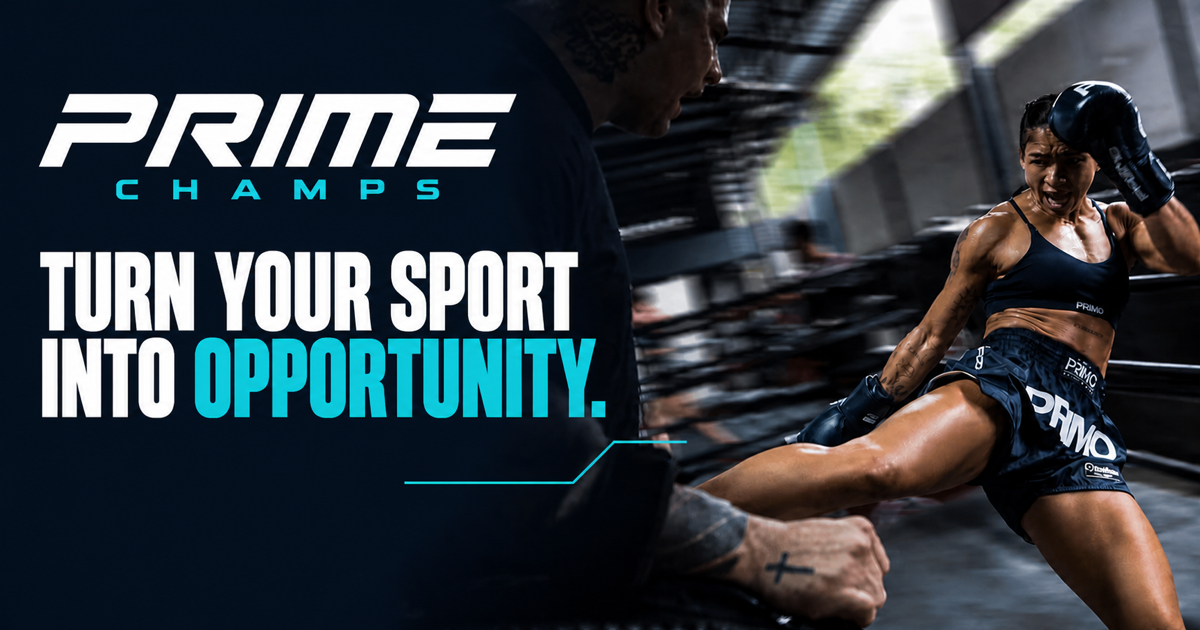
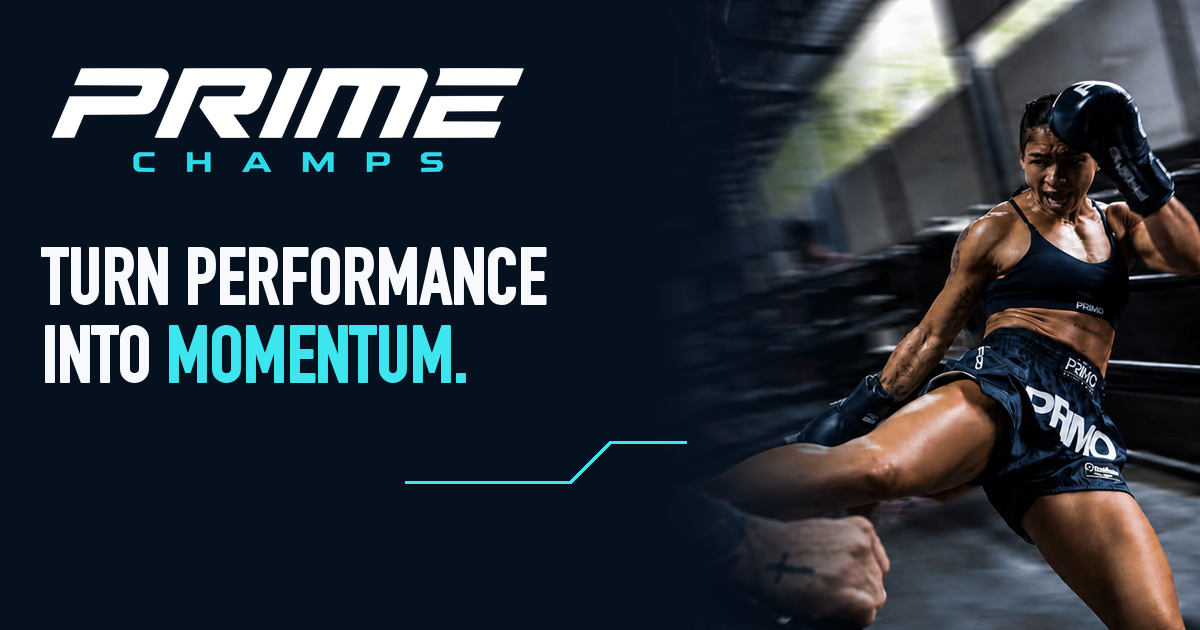
Polish athlete and brand conversion paths

Changed region(s): [[0.0308, 0.0, 0.74, 1.0], [0.0308, 0.0905, 0.4317, 0.3317]]

diff --git a/app/globals.css b/app/globals.css
@@ -835,6 +835,11 @@ h3 {
   object-position: center 38%;
 }
 
+.brand-hero-image .image-data-label {
+  right: clamp(52px, 6vw, 78px);
+  bottom: 38px;
+}
+
 .image-data-label {
   position: absolute;
   z-index: 2;
@@ -2827,14 +2832,14 @@ h3 {
 
 .visual-sport-strip {
   display: grid;
-  grid-template-columns: 1.2fr 0.9fr 0.9fr;
+  grid-template-columns: minmax(0, 1.2fr) minmax(0, 0.92fr) minmax(0, 0.72fr);
   gap: 10px;
   margin-top: 42px;
 }
 
 .visual-sport-strip figure {
   position: relative;
-  height: 260px;
+  height: 360px;
   margin: 0;
   overflow: hidden;
   background: var(--ink-raised);
@@ -2848,7 +2853,15 @@ h3 {
 }
 
 .visual-sport-strip figure:first-child img {
-  object-position: center 42%;
+  object-position: center 38%;
+}
+
+.visual-sport-strip figure:nth-child(2) img {
+  object-position: center 54%;
+}
+
+.visual-sport-strip figure:nth-child(3) img {
+  object-position: center 48%;
 }
 
 .visual-sport-strip figcaption {
@@ -2904,6 +2917,8 @@ h3 {
 .athlete-cta-band .button-primary {
   flex: 0 0 auto;
   background: var(--ink);
+  border-color: var(--ink);
+  color: var(--white);
 }
 
 .concise-athlete-hero {
@@ -2969,10 +2984,6 @@ h3 {
   padding-bottom: clamp(72px, 7vw, 110px);
 }
 
-.mobile-sticky-apply {
-  display: none;
-}
-
 .apply-hero {
   min-height: 480px;
   padding-top: clamp(70px, 8vw, 120px);
@@ -2989,7 +3000,7 @@ h3 {
 }
 
 .site-footer {
-  padding-top: clamp(64px, 6vw, 92px);
+  padding-top: clamp(48px, 5vw, 72px);
 }
 
 .footer-lead {
@@ -3033,10 +3044,6 @@ h3 {
 }
 
 @media (max-width: 720px) {
-  body:has(.mobile-sticky-apply) {
-    padding-bottom: 68px;
-  }
-
   .athlete-first-hero .hero-copy h1 {
     font-size: clamp(3.7rem, 14.2vw, 5rem);
   }
@@ -3068,7 +3075,8 @@ h3 {
 
   .quick-card-grid article,
   .quick-step-grid article {
-    min-height: 190px;
+    min-height: 168px;
+    padding: 26px 30px;
     border-right: 0;
     border-bottom: 1px solid var(--line-dark);
   }
@@ -3084,17 +3092,26 @@ h3 {
 
   .quick-card-grid h3,
   .quick-step-grid h3 {
-    margin-top: 44px;
+    margin-top: 34px;
   }
 
   .visual-sport-strip {
-    grid-template-columns: repeat(3, 1fr);
-    gap: 5px;
+    grid-template-columns: repeat(2, minmax(0, 1fr));
+    gap: 8px;
     margin-top: 28px;
   }
 
   .visual-sport-strip figure {
-    height: 180px;
+    height: 230px;
+  }
+
+  .visual-sport-strip figure:first-child {
+    grid-column: 1 / -1;
+    height: 220px;
+  }
+
+  .visual-sport-strip figure:first-child img {
+    object-position: center 35%;
   }
 
   .visual-sport-strip figcaption {
@@ -3119,25 +3136,25 @@ h3 {
     height: 430px;
   }
 
-  .mobile-sticky-apply {
-    position: fixed;
-    z-index: 90;
-    right: 12px;
-    bottom: 12px;
-    left: 12px;
-    min-height: 52px;
-    padding: 0 20px;
-    display: flex;
-    align-items: center;
-    justify-content: space-between;
-    background: var(--cyan);
-    color: var(--ink);
-    box-shadow: 0 16px 45px rgba(6, 17, 31, 0.35);
-    font-family: var(--font-utility), monospace;
-    font-size: 0.7rem;
-    font-weight: 700;
-    letter-spacing: 0.07em;
-    text-transform: uppercase;
+  .compact-sports-section {
+    grid-template-columns: minmax(0, 1fr);
+  }
+
+  .compact-sports-section > * {
+    min-width: 0;
+  }
+
+  .quick-services,
+  .quick-process,
+  .athlete-steps {
+    padding-top: 68px;
+    padding-bottom: 68px;
+  }
+
+  .campaign-grid article,
+  .brand-process-grid article,
+  .brand-process-grid article + article {
+    min-height: 230px;
   }
 
   .apply-hero {

diff --git a/app/components/SiteShell.tsx b/app/components/SiteShell.tsx
@@ -6,6 +6,13 @@ const primaryLinks = [
 ];
 
 export function SiteHeader({ currentPath }: { currentPath?: string }) {
+  const headerCta =
+    currentPath === "/brands"
+      ? { href: "/apply?type=brand", label: "Start a brief" }
+      : currentPath === "/athletes" || currentPath === "/"
+        ? { href: "/apply?type=athlete", label: "Apply now" }
+        : { href: "/apply", label: "Apply / inquire" };
+
   return (
     <header className="site-header">
       <a className="brand-lockup" href="/" aria-label="Prime Champs home">
@@ -32,10 +39,10 @@ export function SiteHeader({ currentPath }: { currentPath?: string }) {
 
       <a
         className="header-cta"
-        href="/apply"
+        href={headerCta.href}
         aria-current={currentPath === "/apply" ? "page" : undefined}
       >
-        Apply now <span aria-hidden="true">↗</span>
+        {headerCta.label} <span aria-hidden="true">↗</span>
       </a>
 
       <details className="mobile-nav">
@@ -53,8 +60,8 @@ export function SiteHeader({ currentPath }: { currentPath?: string }) {
               {link.label}
             </a>
           ))}
-          <a href="/apply" aria-current={currentPath === "/apply" ? "page" : undefined}>
-            Apply now ↗
+          <a href={headerCta.href} aria-current={currentPath === "/apply" ? "page" : undefined}>
+            {headerCta.label} ↗
           </a>
         </nav>
       </details>
@@ -65,14 +72,6 @@ export function SiteHeader({ currentPath }: { currentPath?: string }) {
 export function SiteFooter() {
   return (
     <footer className="site-footer">
-      <div className="footer-lead">
-        <p className="eyebrow">The next move starts here</p>
-        <h2>Ready to make your next move?</h2>
-        <a className="text-link light" href="/apply?type=athlete">
-          Apply now <span aria-hidden="true">↗</span>
-        </a>
-      </div>
-
       <div className="footer-grid footer-grid-compact">
         <div className="footer-brand">
           <a className="footer-brand-lockup" href="/" aria-label="Prime Champs home">

diff --git a/app/layout.tsx b/app/layout.tsx
@@ -71,7 +71,7 @@ export async function generateMetadata(): Promise<Metadata> {
       type: "website",
       url: origin,
       siteName: "Prime Champs",
-      title: "Prime Champs | Turn your sport into opportunity.",
+      title: "Prime Champs | Turn performance into momentum.",
       description:
         "Brand opportunities and partnership support for modern athletes.",
       images: [
@@ -79,13 +79,13 @@ export async function generateMetadata(): Promise<Metadata> {
           url: socialImage,
           width: 1200,
           height: 630,
-          alt: "Prime Champs — Turn your sport into opportunity.",
+          alt: "Prime Champs — Turn performance into momentum.",
         },
       ],
     },
     twitter: {
       card: "summary_large_image",
-      title: "Prime Champs | Turn your sport into opportunity.",
+      title: "Prime Champs | Turn performance into momentum.",
       description:
         "Brand opportunities and partnership support for modern athletes.",
       images: [socialImage],

diff --git a/app/page.tsx b/app/page.tsx
@@ -53,8 +53,8 @@ export default function Home() {
         <div className="hero-copy">
           <p className="eyebrow">Brand opportunities for athletes</p>
           <h1>
-            Turn your sport
-            <span>into opportunity.</span>
+            Turn performance
+            <span>into momentum.</span>
           </h1>
           <p className="hero-deck">
             We help athletes stand out, meet the right brands, and manage the
@@ -115,8 +115,8 @@ export default function Home() {
             <figcaption>SURF</figcaption>
           </figure>
           <figure>
-            <img src="/media/tennis-campaign.jpg" alt="Tennis campaign concept" width="825" height="1024" loading="lazy" decoding="async" />
-            <figcaption>CAMPAIGN</figcaption>
+            <img src="/media/tennis-clean.jpg" alt="Tennis ball in play during a match" width="1126" height="1397" loading="lazy" decoding="async" />
+            <figcaption>TENNIS</figcaption>
           </figure>
         </div>
       </section>

diff --git a/app/about/page.tsx b/app/about/page.tsx
@@ -89,9 +89,9 @@ export default function AboutPage() {
           </p>
         </div>
         <div className="network-images">
-          <img src="/media/surf-power-carve.jpg" alt="Surfer driving through a powerful turn" width="1260" height="1974" loading="lazy" decoding="async" />
+          <img src="/media/surf-carve-clean.jpg" alt="Surfer driving through a powerful turn" width="1002" height="1570" loading="lazy" decoding="async" />
           <img src="/media/fight-ring.jpg" alt="Combat athlete landing a kick in competition" width="1260" height="1279" loading="lazy" decoding="async" />
-          <img src="/media/tennis-campaign.jpg" alt="Prime Champs campaign concept on a tennis ball" width="825" height="1024" loading="lazy" decoding="async" />
+          <img src="/media/tennis-clean.jpg" alt="Tennis ball in play during a match" width="1126" height="1397" loading="lazy" decoding="async" />
         </div>
       </section>
 

diff --git a/app/brands/page.tsx b/app/brands/page.tsx
@@ -34,7 +34,7 @@ export default function BrandsPage() {
           </a>
         </div>
         <div className="subpage-hero-image brand-hero-image">
-          <img src="/media/surf-carve.jpg" alt="Surfer carving across a blue wave" width="1260" height="1974" fetchPriority="high" />
+          <img src="/media/surf-carve-clean.jpg" alt="Surfer carving across a blue wave" width="1002" height="1570" fetchPriority="high" />
           <div className="image-data-label"><span>FILTER</span><strong>Credibility × audience</strong></div>
         </div>
       </section>

diff --git a/app/seo.ts b/app/seo.ts
@@ -31,7 +31,7 @@ export function pageMetadata({
           url: "/og.png",
           width: 1200,
           height: 630,
-          alt: "Prime Champs — Turn your sport into opportunity.",
+          alt: "Prime Champs — Turn performance into momentum.",
         },
       ],
     },

diff --git a/app/athletes/page.tsx b/app/athletes/page.tsx
@@ -107,9 +107,6 @@ export default function AthletesPage() {
         </div>
       </section>
 
-      <a className="mobile-sticky-apply" href="/apply?type=athlete">
-        Apply now <span aria-hidden="true">↗</span>
-      </a>
     </PageShell>
   );
 }
